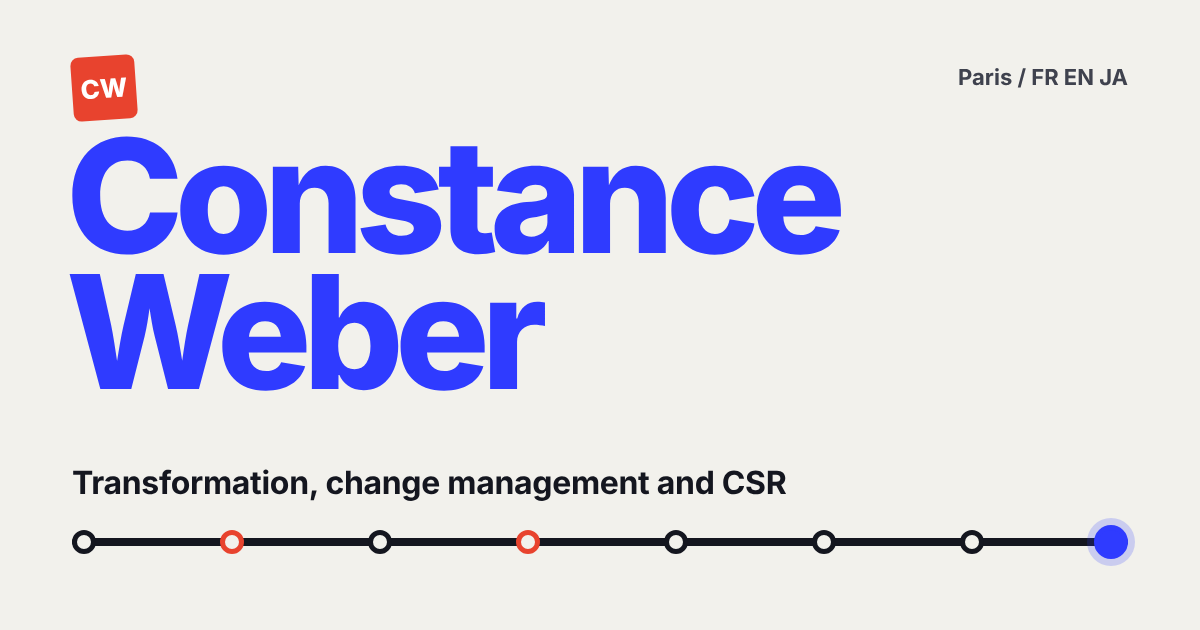
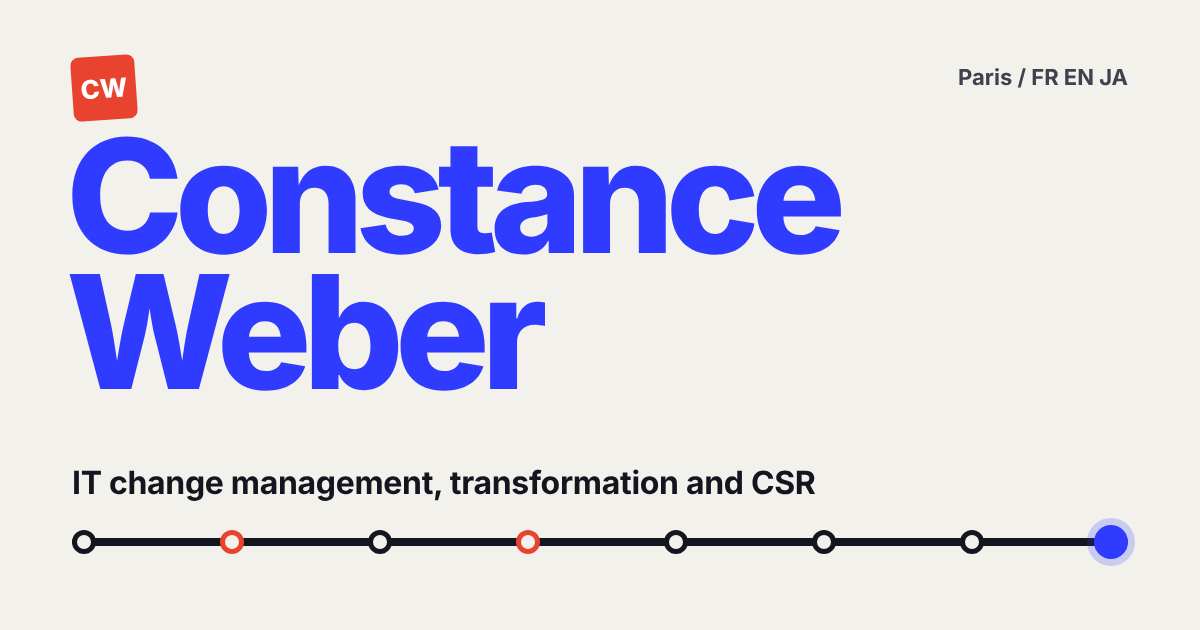
Put IT change management first in the positioning
Claude-Session: https://claude.ai/code/session_01GVWdf6v7YtxNcdtF8cSr1P

Changed region(s): [[0.0617, 0.7238, 0.6783, 0.8143]]

diff --git a/assets/i18n.js b/assets/i18n.js
@@ -1,16 +1,16 @@
 /* Generated by tools/build.py from content/*.json. Do not edit by hand. */
 window.I18N = {
  "en": {
-  "meta_title": "Constance Weber | Transformation & change management consultant",
-  "meta_desc": "Consultant in operational transformation, change management and CSR, based in Paris. ESSEC graduate, French, English and Japanese.",
+  "meta_title": "Constance Weber | IT change management & transformation consultant",
+  "meta_desc": "Consultant in IT change management, transformation and CSR, based in Paris. ESSEC graduate, French, English and Japanese.",
   "nav_work": "Work",
   "nav_exp": "Experience",
   "nav_edu": "Education",
   "nav_contact": "Contact",
   "cv": "Download CV",
-  "hero_role": "Transformation & change management consultant, Paris",
+  "hero_role": "IT change management & transformation consultant, Paris",
   "hero_h1": "Transformation that teams actually adopt.",
-  "hero_lead": "I'm Constance. I work on operational transformation, change management and CSR: I build the tools, run the workshops and follow the numbers until the new way of working sticks.",
+  "hero_lead": "I'm Constance. I work on IT change management, transformation and CSR: when new tools, systems or ways of working arrive, I build the tools, run the trainings and workshops, and follow the numbers until teams have really adopted them.",
   "hero_cta_contact": "Get in touch",
   "hero_cta_work": "See my work",
   "line_title": "My path so far",
@@ -91,23 +91,23 @@ window.I18N = {
   "vol_title": "Outside work",
   "vol_text": "ESSEC Japan association (cultural events for 100+ students), Rotary speaker in France and Japan, volunteering with Secours Catholique and Le Camion Douche.",
   "contact_title": "Let's talk",
-  "contact_lead": "I'm open to consulting roles in transformation, change management or CSR, in Paris or in Japan.",
+  "contact_lead": "I'm open to consulting roles in IT change management, transformation or CSR, in Paris or in Japan.",
   "contact_mail": "Send me an email",
   "contact_li": "LinkedIn",
   "footer": "Built by Constance Weber. No cookies, no tracking.",
   "footer_tm": "ADKAR® is a registered trademark of Prosci, Inc. The Change Barometer is an independent tool, not affiliated with Prosci."
  },
  "fr": {
-  "meta_title": "Constance Weber | Consultante en transformation et conduite du changement",
-  "meta_desc": "Consultante en transformation opérationnelle, conduite du changement et RSE, basée à Paris. Diplômée de l'ESSEC, français, anglais et japonais.",
+  "meta_title": "Constance Weber | Consultante en conduite du changement IT et transformation",
+  "meta_desc": "Consultante en conduite du changement IT, transformation et RSE, basée à Paris. Diplômée de l'ESSEC, français, anglais et japonais.",
   "nav_work": "Projets",
   "nav_exp": "Expérience",
   "nav_edu": "Formation",
   "nav_contact": "Contact",
   "cv": "Télécharger mon CV",
-  "hero_role": "Consultante en transformation et conduite du changement, Paris",
+  "hero_role": "Consultante en conduite du changement IT et transformation, Paris",
   "hero_h1": "Des transformations que les équipes adoptent vraiment.",
-  "hero_lead": "Je suis Constance. Je travaille sur la transformation opérationnelle, la conduite du changement et la RSE : je construis les outils, j'anime les ateliers et je suis les indicateurs jusqu'à ce que la nouvelle façon de travailler soit vraiment ancrée.",
+  "hero_lead": "Je suis Constance. Je travaille sur la conduite du changement IT, la transformation et la RSE : quand de nouveaux outils, systèmes ou façons de travailler arrivent, je construis les outils, j'anime les formations et les ateliers, et je suis les indicateurs jusqu'à ce que les équipes les aient vraiment adoptés.",
   "hero_cta_contact": "Me contacter",
   "hero_cta_work": "Voir mes projets",
   "line_title": "Mon parcours",
@@ -188,23 +188,23 @@ window.I18N = {
   "vol_title": "En dehors du travail",
   "vol_text": "Association ESSEC Japan (événements culturels pour plus de 100 étudiants), interventions pour le Rotary en France et au Japon, bénévolat au Secours Catholique et au Camion Douche.",
   "contact_title": "Parlons-en",
-  "contact_lead": "Je suis ouverte à des postes de conseil en transformation, conduite du changement ou RSE, à Paris ou au Japon.",
+  "contact_lead": "Je suis ouverte à des postes de conseil en conduite du changement IT, transformation ou RSE, à Paris ou au Japon.",
   "contact_mail": "M'écrire un email",
   "contact_li": "LinkedIn",
   "footer": "Site réalisé par Constance Weber. Sans cookies, sans suivi.",
   "footer_tm": "ADKAR® est une marque déposée de Prosci, Inc. Le Baromètre du changement est un outil indépendant, non affilié à Prosci."
  },
  "ja": {
-  "meta_title": "Constance Weber｜変革・チェンジマネジメントコンサルタント",
-  "meta_desc": "パリを拠点に、業務変革、チェンジマネジメント、CSRに取り組むコンサルタント。ESSEC卒業。フランス語、英語、日本語。",
+  "meta_title": "Constance Weber｜ITチェンジマネジメント・変革コンサルタント",
+  "meta_desc": "パリを拠点に、ITチェンジマネジメント、業務変革、CSRに取り組むコンサルタント。ESSEC卒業。フランス語、英語、日本語。",
   "nav_work": "プロジェクト",
   "nav_exp": "職歴",
   "nav_edu": "学歴",
   "nav_contact": "連絡先",
   "cv": "履歴書をダウンロード",
-  "hero_role": "変革・チェンジマネジメントコンサルタント（パリ）",
+  "hero_role": "ITチェンジマネジメント・変革コンサルタント（パリ）",
   "hero_h1": "現場に根付く変革を。",
-  "hero_lead": "コンスタンスです。業務変革、チェンジマネジメント、CSRに取り組んでいます。ツールをつくり、ワークショップを運営し、新しい働き方が定着するまで数字で追いかけます。",
+  "hero_lead": "コンスタンスです。ITのチェンジマネジメント、業務変革、CSRに取り組んでいます。新しいツールやシステム、働き方が導入されるとき、ツールをつくり、研修やワークショップを運営し、チームに本当に定着するまで数字で追いかけます。",
   "hero_cta_contact": "お問い合わせ",
   "hero_cta_work": "プロジェクトを見る",
   "line_title": "これまでの歩み",
@@ -285,7 +285,7 @@ window.I18N = {
   "vol_title": "仕事以外の活動",
   "vol_text": "ESSEC Japan（100名以上の学生向け文化イベントを企画）、フランスと日本でのロータリー講演、Secours CatholiqueやLe Camion Doucheでのボランティア。",
   "contact_title": "お話ししましょう",
-  "contact_lead": "パリまたは日本で、変革、チェンジマネジメント、CSRのコンサルティング職を探しています。",
+  "contact_lead": "パリまたは日本で、ITチェンジマネジメント、変革、CSRのコンサルティング職を探しています。",
   "contact_mail": "メールを送る",
   "contact_li": "LinkedIn",
   "footer": "制作：Constance Weber。Cookieやトラッキングは使用していません。",

diff --git a/index.html b/index.html
@@ -3,11 +3,11 @@
 <head>
 <meta charset="utf-8">
 <meta name="viewport" content="width=device-width, initial-scale=1">
-<title data-k="meta_title">Constance Weber | Transformation &amp; change management consultant</title>
-<meta name="description" content="Consultant in operational transformation, change management and CSR, based in Paris. ESSEC graduate, French, English and Japanese.">
+<title data-k="meta_title">Constance Weber | IT change management &amp; transformation consultant</title>
+<meta name="description" content="Consultant in IT change management, transformation and CSR, based in Paris. ESSEC graduate, French, English and Japanese.">
 <meta property="og:type" content="website">
-<meta property="og:title" content="Constance Weber | Transformation &amp; change management consultant">
-<meta property="og:description" content="Consultant in operational transformation, change management and CSR, based in Paris. ESSEC graduate, French, English and Japanese.">
+<meta property="og:title" content="Constance Weber | IT change management &amp; transformation consultant">
+<meta property="og:description" content="Consultant in IT change management, transformation and CSR, based in Paris. ESSEC graduate, French, English and Japanese.">
 <meta property="og:image" content="https://constanceweber6-alt.github.io/portfolio/assets/img/og.png">
 <meta property="og:url" content="https://constanceweber6-alt.github.io/portfolio/">
 <meta name="twitter:card" content="summary_large_image">
@@ -41,7 +41,7 @@
   <section class="hero" id="top">
     <div class="wrap">
       <div class="hero-meta">
-        <span data-k="hero_role">Transformation &amp; change management consultant, Paris</span>
+        <span data-k="hero_role">IT change management &amp; transformation consultant, Paris</span>
         <span>FR / EN / JA</span>
       </div>
       <h1 class="giant" aria-label="Constance Weber">
@@ -51,7 +51,7 @@
       <div class="hero-grid">
         <div>
           <p class="claim" data-k="hero_h1">Transformation that teams actually adopt.</p>
-          <p class="lead" data-k="hero_lead">I'm Constance. I work on operational transformation, change management and CSR: I build the tools, run the workshops and follow the numbers until the new way of working sticks.</p>
+          <p class="lead" data-k="hero_lead">I'm Constance. I work on IT change management, transformation and CSR: when new tools, systems or ways of working arrive, I build the tools, run the trainings and workshops, and follow the numbers until teams have really adopted them.</p>
           <div class="ctas">
             <a class="btn btn-ink" href="#contact" data-k="hero_cta_contact">Get in touch</a>
             <a class="btn btn-line" href="#work" data-k="hero_cta_work">See my work</a>
@@ -59,7 +59,7 @@
           </div>
         </div>
         <aside class="postit" aria-hidden="true">
-          <span data-k="contact_lead">I'm open to consulting roles in transformation, change management or CSR, in Paris or in Japan.</span>
+          <span data-k="contact_lead">I'm open to consulting roles in IT change management, transformation or CSR, in Paris or in Japan.</span>
         </aside>
       </div>
     </div>
@@ -197,7 +197,7 @@
   <section class="contact" id="contact">
     <div class="wrap">
       <h2 class="giant giant-contact" data-k="contact_title">Let's talk</h2>
-      <p class="contact-lead" data-k="contact_lead">I'm open to consulting roles in transformation, change management or CSR, in Paris or in Japan.</p>
+      <p class="contact-lead" data-k="contact_lead">I'm open to consulting roles in IT change management, transformation or CSR, in Paris or in Japan.</p>
       <div class="ctas">
         <a class="btn btn-paper" href="mailto:constance.weber@essec.edu" data-k="contact_mail">Send me an email</a>
         <a class="btn btn-ghost" href="https://www.linkedin.com/in/constance-weber/" target="_blank" rel="noopener" data-k="contact_li">LinkedIn</a>
